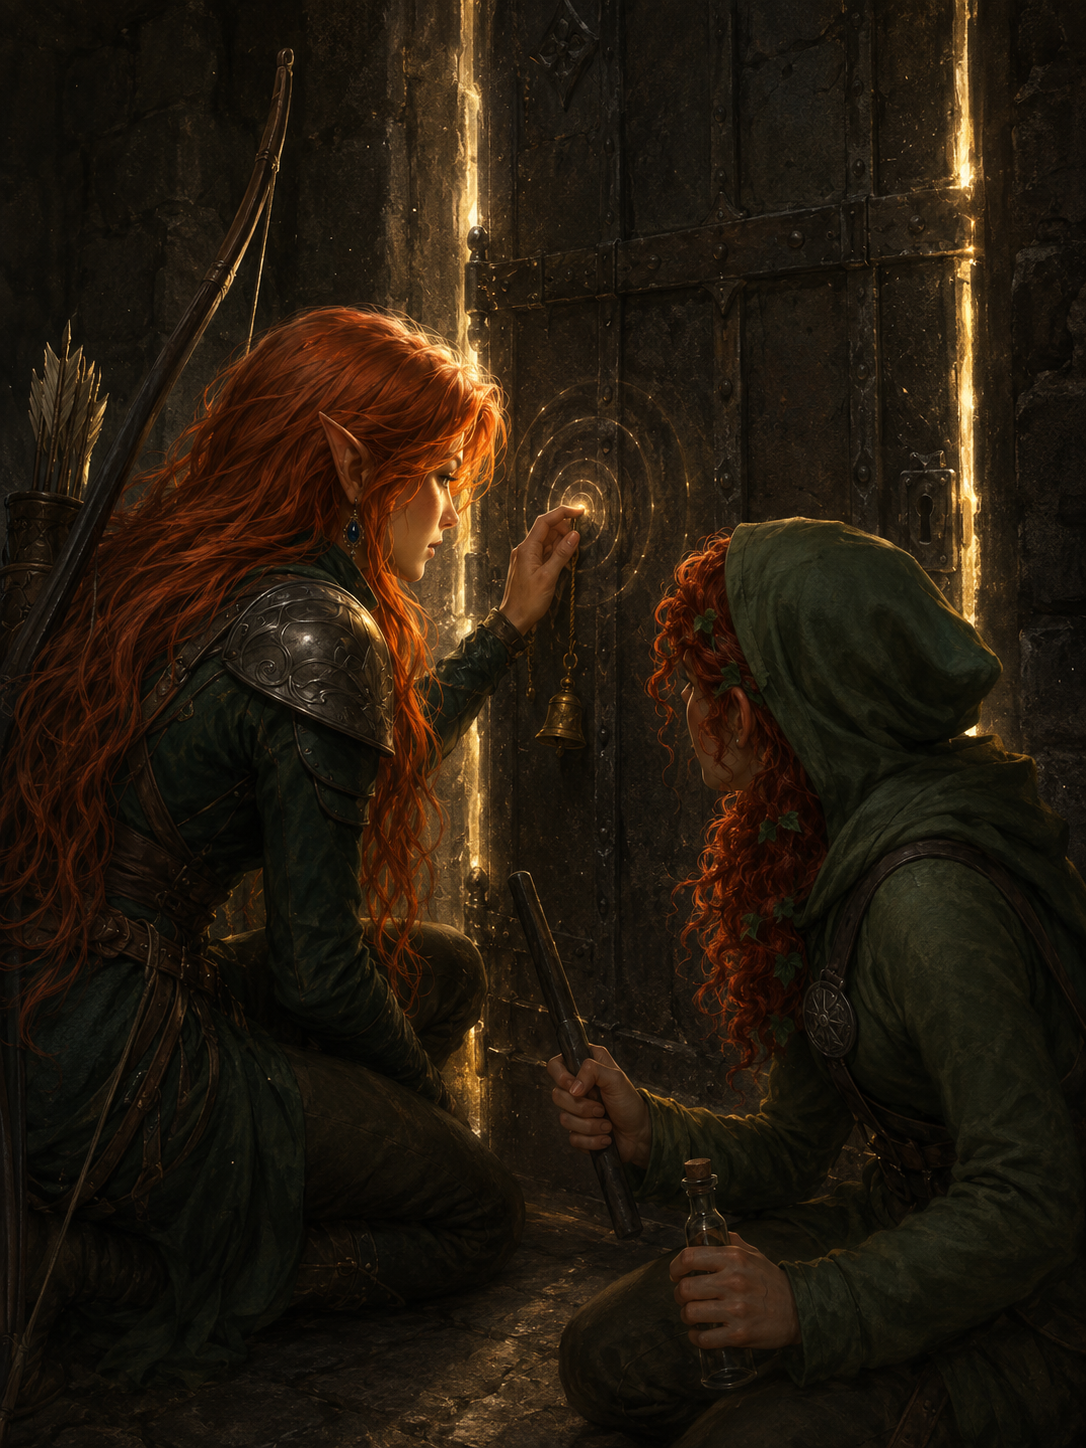
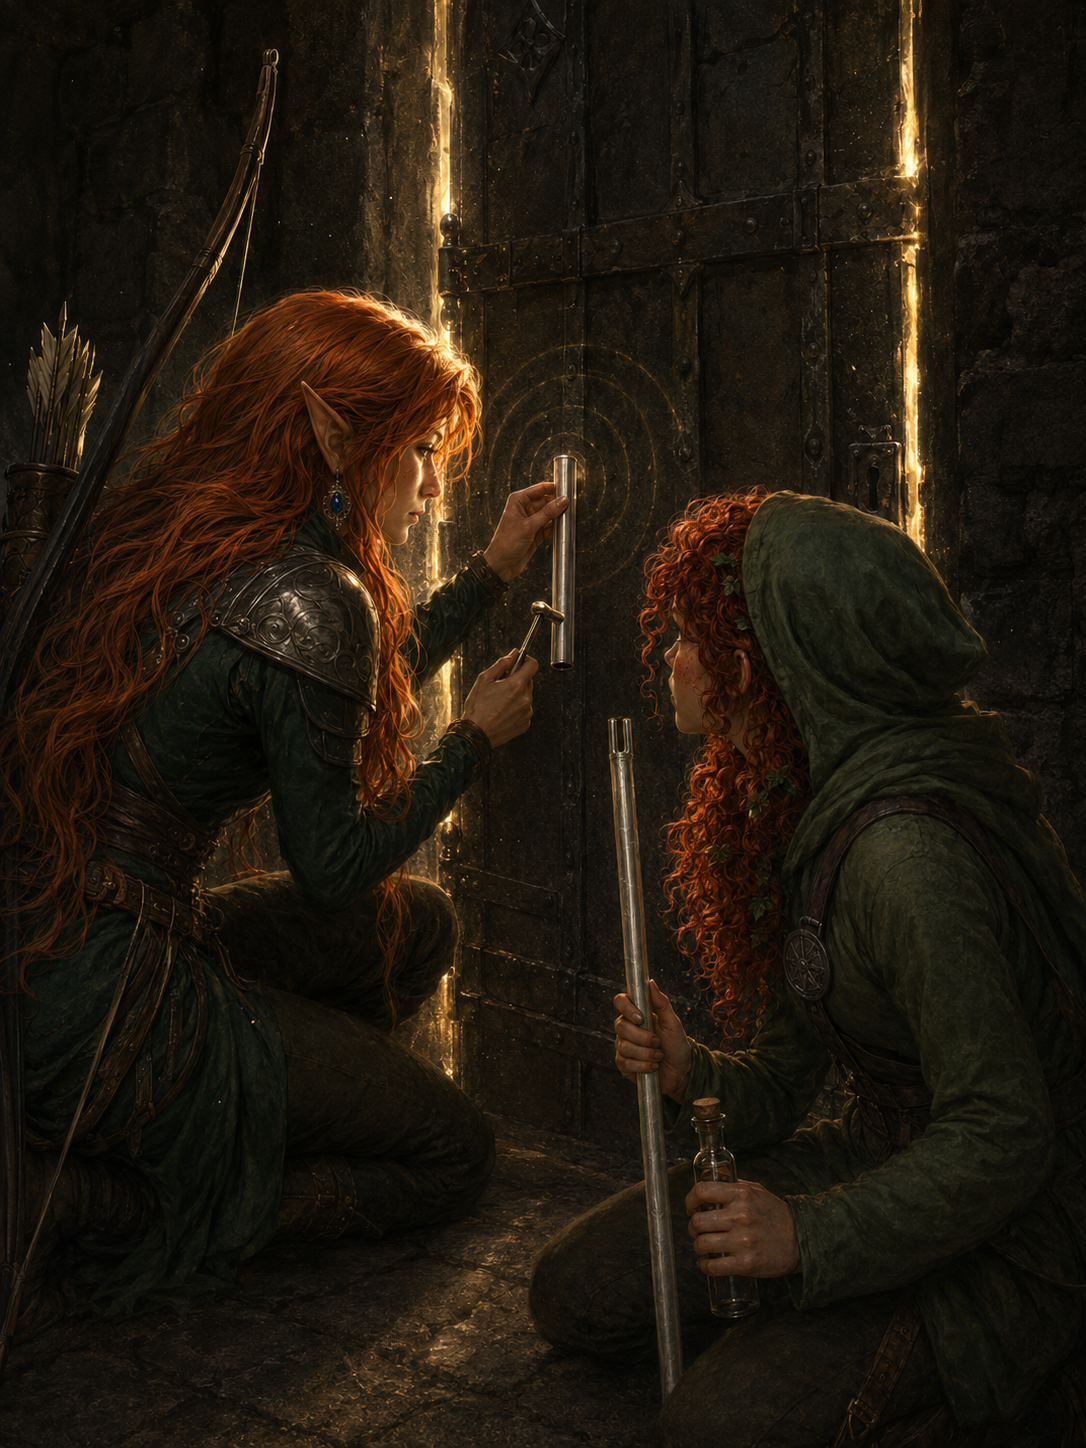
Correct the relic props in Chapter XI, and record how they look
The two item images were drawn from the item NAMES rather than from
their actual descriptions, so the props were wrong:

- the-rod-touches-the-stone: the Wardstone fragment was a gem in a
  dainty filigree cage; it is now a carry-on-sized block of crystal
  in a large standing prison of thick spiked iron, big enough that
  Rabiah must reach an arm through the bars. The rod of cancellation
  is now the silvery-white three-foot two-pronged bar. Rabiah now
  looks at the point of contact with awe and dread rather than
  staring past it, and the unmaking breaks outward from the prongs
  in rays and white-hot cracks.
- the-chime-and-the-charge: the chime of opening was a clappered
  hand-bell; it is now a short hollow silver tube struck with a tiny
  hammer. Rabiah's rod matches the corrected rod above.

To stop this recurring, artifact APPEARANCE is now canon in the
bible: a "How they look" block in 03-lore-and-locations.md with
per-item Avoid clauses, and a pointer to it from the visual style
guide beside the face and kit rules.

diff --git a/bible/03-lore-and-locations.md b/bible/03-lore-and-locations.md
@@ -12,6 +12,31 @@
 - **Battle Hymn** — a cold-iron longsword forged to bite the fiends of the Abyss, won from Scorizscar's hoard on the Gray Road; Varic's current blade.
 - **Staunton Vhane's Journals** — recovered enemy intelligence on the Corruption Forge and the demonic hierarchy.
 
+### How they look — appearance is canon, for illustration
+
+The entries above say what a thing *does*. These say what it *looks like*. An image model
+invents a plausible prop for any object left undescribed, and the plausible prop is usually
+wrong — a "chime" becomes a church bell, a "rod" becomes a wand. **Take an item's appearance
+from here and put its explicit negatives in the prompt's `Avoid:` line.** Add a line here the
+first time any named item is illustrated.
+
+- ***Rod of cancellation*** — a **silvery-white metal bar, about one inch in diameter and a full
+  three feet long**, tipped at one end with **two short parallel prongs** like a two-tined fork.
+  Plain, bright and metallic; it does **not** glow. *Avoid:* a wand, a short baton, a twig, a
+  thin rod, a rod without prongs, a glowing rod.
+- ***Chime of opening*** — a short, straight, **hollow silver tube**, open at both ends, about
+  **a hand-span long** (six to eight inches), slim and unpierced like a small silver pipe. It is
+  **rung by striking it with a tiny silver hammer**, held in the other hand. *Avoid:* a bell of
+  any kind — cup-shaped, flared, clappered, or swung on a cord.
+- **The Kenabres Wardstone fragment** — the last and largest surviving piece: a single rough,
+  irregular block of crystal **roughly the size of an airline carry-on bag** (about two feet
+  long), glowing from within with warm holy gold-white light. It is a **block of stone, not a
+  jewel**. Caged in a **large standing prison of thick, crude, square-sectioned black iron bars
+  as thick as a wrist**, hammered and pitted, with **cruel spikes jutting inward and outward** —
+  tall and wide enough that a person must **reach an arm in between the bars** to touch the stone.
+  *Avoid:* a gem-sized crystal, a delicate or ornamental cage, filigree, scrollwork, a birdcage,
+  a lantern.
+
 ## Enemy Intelligence (from Vhane's journals)
 
 - **Aponavisius** — Marilith commander in the demonic hierarchy.

diff --git a/bible/04-visual-style-guide.md b/bible/04-visual-style-guide.md
@@ -75,6 +75,15 @@ gilded look. Read [`05-kit-and-timeline.md`](05-kit-and-timeline.md) for the era
 matches the scene, and put its explicit negatives (e.g. `no golden plate, no glowing sword`
 for early Harlock) in the prompt's `Avoid:` line.
 
+**Take named items from the artifact list, not from the name.** A named object's *appearance*
+is canon exactly as a face is. Read the *How they look* entries in
+[`03-lore-and-locations.md`](03-lore-and-locations.md#artifacts--relics) before writing any prompt that
+puts a relic in someone's hand, and carry that entry's `Avoid:` clauses into your own. Left to
+itself the model illustrates the **word**, not the object — a *chime of opening* came out as a
+church bell with a clapper, a *rod of cancellation* as a little dark wand, and the *Wardstone
+fragment* as a gem in a birdcage instead of a suitcase-sized block behind spiked iron. If you
+illustrate an item that has no entry yet, get its description from Matt and **add the entry**.
+
 **Write the corrections as negatives, not just positives.** The model fills any silence
 with its own defaults, and its defaults skew toward sexualized armor on women and
 orc caricature (tusks, underbite) on half-orcs. Put the explicit "no …" clauses in the
